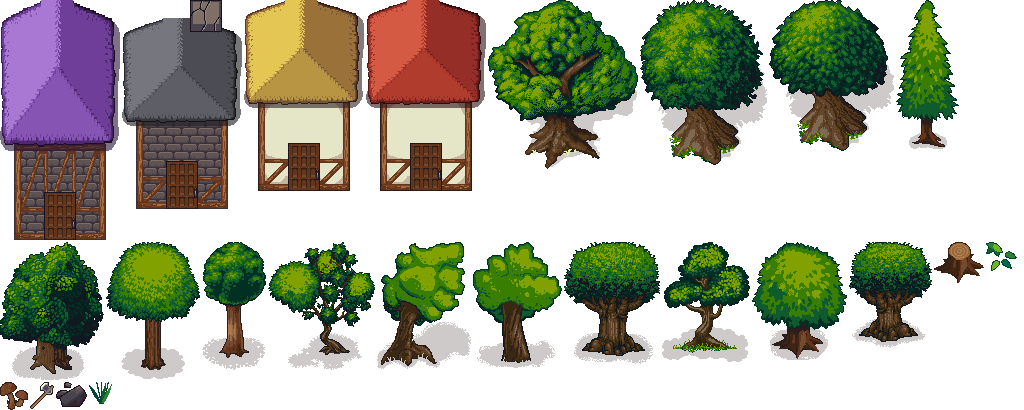
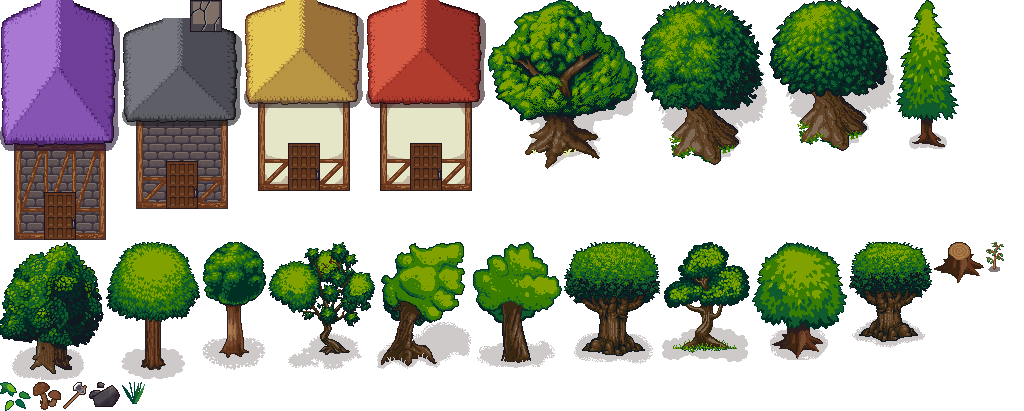
[PROJECT-F3]: Add the sapling frame

diff --git a/lib/layers/presentation/features/forest/game/atlas/sprite_names.dart b/lib/layers/presentation/features/forest/game/atlas/sprite_names.dart
@@ -6,6 +6,7 @@ import '../../../../../../core/utils/kebab_case.dart';
 
 abstract final class SpriteNames {
   static const String stump = 'stump';
+  static const String sapling = 'sapling';
 
   static String tree(TreeKind kind) => 'tree-${kind.name.toKebabCase()}';
 

diff --git a/asset-packs/lpc/build_assets.py b/asset-packs/lpc/build_assets.py
@@ -8,7 +8,7 @@ Outputs (into lib/core/assets/images/lpc/, the one copy the Flutter app reads on
                                    with and without the axe in hand
   hero-{chop,hammer}.png           128x128 work animations: body slash frames between the tool's
                                    back and front layers (same layout as the LPC generator)
-  forest.png + forest.json         JSON-hash atlas (TexturePacker format): trees (pivot = trunk base), decor, stump,
+  forest.png + forest.json         JSON-hash atlas (TexturePacker format): trees and sapling (pivot = trunk base), decor, stump,
                                    axe pickup, the house, the forge, the armory and the mage tower
                                    (pivot = bottom centre)
   ground.png                       grass tile(s) for the tilemap (32x32 each, in a row)
@@ -165,6 +165,7 @@ GROUND_TILES = [(1, 23)]
 CELL = 32
 # Pixel boxes (x0, y0, x1, y1) of single sprites.
 STUMP_BOX = (391, 395, 441, 436)  # terrain_atlas.png
+SAPLING_BOX = (416, 800, 448, 832)  # terrain_atlas.png, a young woody plant among the farm crops
 AXE_PICKUP = (1, 5)  # (row, column) of a 128px axe frame (back + front layers) showing the whole axe
 
 # House assembled from LPC cottage pieces: a 3x3 timber-frame wall, a thatched hip roof on top
@@ -295,6 +296,10 @@ def build_forest() -> None:
 
     frames["stump"] = terrain.crop(STUMP_BOX)
     pivots["stump"] = {"x": 0.5, "y": 0.85}
+    sapling = trim(terrain.crop(SAPLING_BOX), "sapling")
+    frames["sapling"] = sapling
+    base_x, base_y = trunk_base(sapling)
+    pivots["sapling"] = {"x": round(base_x / sapling.width, 4), "y": round(base_y / sapling.height, 4)}
     row, column = AXE_PICKUP
     cell = (column * WORK_FRAME, row * WORK_FRAME, (column + 1) * WORK_FRAME, (row + 1) * WORK_FRAME)
     axe = Image.alpha_composite(tool("axe_bg"), tool("axe_fg")).crop(cell)

diff --git a/lib/core/assets/images/lpc/CREDITS.md b/lib/core/assets/images/lpc/CREDITS.md
@@ -55,6 +55,7 @@ from the LPC Tile Atlas above.
 The mage tower roof is recoloured violet and stretched 40 % taller.
 
 The stump (`stump` frame) comes from the LPC Tile Atlas above.
+The sapling (`sapling` frame) is a young plant from the farming crops of the LPC Tile Atlas above (Daniel Eddeland).
 
 ## Arena (`arena.png`)
 
